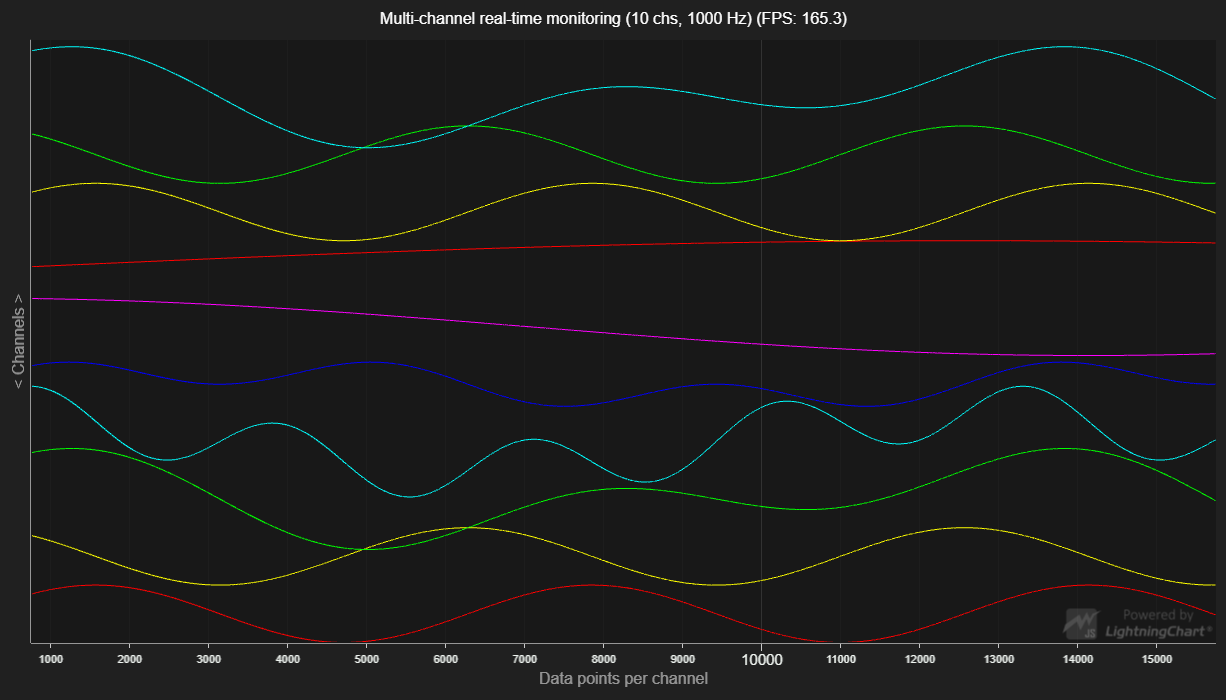
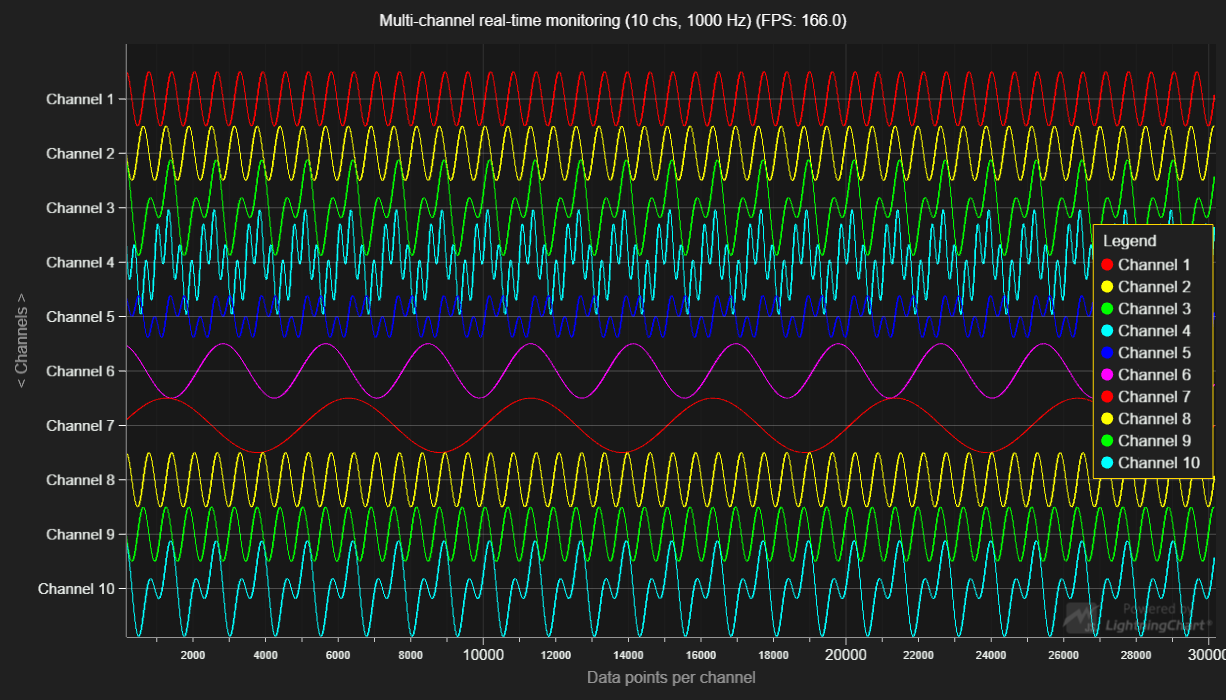
LCJS 3.0.0

diff --git a/src/index.js b/src/index.js
@@ -15,23 +15,22 @@ const {
     AutoCursorModes,
     AxisScrollStrategies,
     AxisTickStrategies,
-    DataPatterns,
     ColorRGBA,
     ColorHSV,
+    UIElementBuilders,
     Themes,
 } = lcjs
 
 const DATA_FREQUENCY_HZ = 1000
 const CHANNELS_AMOUNT = 10
-const xIntervalMax = 15 * DATA_FREQUENCY_HZ
+const xIntervalMax = 30 * DATA_FREQUENCY_HZ
 const channelIntervalY = 2 // [-1, 1]
 
 const chart = lightningChart()
     .ChartXY({
-        // Theme: Themes.dark,
+    // theme: Themes.dark
     })
     .setTitle(`Multi-channel real-time monitoring (${CHANNELS_AMOUNT} chs, ${DATA_FREQUENCY_HZ} Hz)`)
-    .setAutoCursorMode(AutoCursorModes.disabled)
 const axisX = chart
     .getDefaultAxisX()
     .disableAnimations()
@@ -46,37 +45,53 @@ const axisY = chart.getDefaultAxisY()
     .setInterval(-channelIntervalY / 2, CHANNELS_AMOUNT * channelIntervalY)
 
 const series = new Array(CHANNELS_AMOUNT).fill(0).map((_, iChannel) => {
-    const nSeries = chart
-        .addLineSeries({
-            dataPattern: DataPatterns.horizontalProgressive,
+    // Create line series optimized for regular progressive X data.
+    const nSeries = chart.addLineSeries({
+            dataPattern: {
+                // pattern: 'ProgressiveX' => Each consecutive data point has increased X coordinate.
+                pattern: 'ProgressiveX',
+                // regularProgressiveStep: true => The X step between each consecutive data point is regular (for example, always `1.0`).
+                regularProgressiveStep: true,
+            }
         })
+        .setName(`Channel ${iChannel + 1}`)
         .setStrokeStyle(new SolidLine({
             thickness: 1,
             fillStyle: new SolidFill({color: ColorHSV( iChannel * 60 )})
         }))
         .setMouseInteractions(false)
+        // Enable automatic data cleaning.
         .setMaxPointCount(xIntervalMax)
+
+    // Add custom tick for each channel.
+    chart
+        .getDefaultAxisY()
+        .addCustomTick(UIElementBuilders.AxisTick)
+        .setValue(( CHANNELS_AMOUNT - (1 + iChannel) ) * channelIntervalY)
+        .setTextFormatter(() => `Channel ${iChannel + 1}`)
+        .setGridStrokeStyle(
+            new SolidLine({
+                thickness: 1,
+                fillStyle: new SolidFill({ color: ColorRGBA(255, 255, 255, 60) }),
+            }),
+        )
 
     return nSeries
 })
 
-const dcThresholdBand = axisX.addConstantLine().setStrokeStyle(
-    new SolidLine({
-        thickness: 10,
-        fillStyle: new SolidFill({ color: ColorRGBA(255,0,0,50) }),
-    }),
-)
+// Add LegendBox.
+chart.addLegendBox().add(chart)
 
 // Define unique signals that will be used for channels.
 const signals = [
-    { length: 1000 * 2 * Math.PI, func: (x) => Math.sin(x / 1000) },
-    { length: 1000 * 2 * Math.PI, func: (x) => Math.cos(x / 1000) },
-    { length: 2000 * 2 * Math.PI, func: (x) => Math.cos(x / 2000) + Math.sin(x / 1000) },
-    { length: 2000 * 2 * Math.PI, func: (x) => Math.sin(x / 500) + Math.cos(x / 2000) },
-    { length: 2000 * 2 * Math.PI, func: (x) => Math.sin(x / 1000) * Math.cos(x / 2000) },
-    { length: 4500 * 2 * Math.PI, func: (x) => Math.cos(x / 4500) },
-    { length: 8000 * 2 * Math.PI, func: (x) => Math.sin(x / 8000) },
-    { length: 6500 * 2 * Math.PI, func: (x) => Math.sin(x / 2000) * Math.cos(x / 6500) },
+    { length: 100 * 2 * Math.PI, func: (x) => Math.sin(x / 100) },
+    { length: 100 * 2 * Math.PI, func: (x) => Math.cos(x / 100) },
+    { length: 200 * 2 * Math.PI, func: (x) => Math.cos(x / 200) + Math.sin(x / 100) },
+    { length: 200 * 2 * Math.PI, func: (x) => Math.sin(x / 50) + Math.cos(x / 200) },
+    { length: 200 * 2 * Math.PI, func: (x) => Math.sin(x / 100) * Math.cos(x / 200) },
+    { length: 450 * 2 * Math.PI, func: (x) => Math.cos(x / 450) },
+    { length: 800 * 2 * Math.PI, func: (x) => Math.sin(x / 800) },
+    { length: 650 * 2 * Math.PI, func: (x) => Math.sin(x / 200) * Math.cos(x / 650) },
 ]
 
 // Generate data sets for each signal.
@@ -110,7 +125,7 @@ Promise.all(
                 const x = xPos + iDp
                 const iData = x % (nDataset.length - 1)
                 const ySignal = nDataset[iData]
-                const y = iChannel * channelIntervalY + ySignal
+                const y = ((CHANNELS_AMOUNT - 1) - iChannel) * channelIntervalY + ySignal
                 const point = { x, y }
                 newDataPoints.push(point)
             }
@@ -129,13 +144,13 @@ Promise.all(
 
 
 // Measure FPS.
-let tStart = Date.now()
+let tStart = window.performance.now()
 let frames = 0
 let fps = 0
 const title = chart.getTitle()
 const recordFrame = () => {
     frames++
-    const tNow = Date.now()
+    const tNow = window.performance.now()
     fps = 1000 / ((tNow - tStart) / frames)
     sub_recordFrame = requestAnimationFrame(recordFrame)
 
@@ -143,6 +158,6 @@ const recordFrame = () => {
 }
 let sub_recordFrame = requestAnimationFrame(recordFrame)
 setInterval(() => {
-    tStart = Date.now()
+    tStart = window.performance.now()
     frames = 0
 }, 5000)

diff --git a/README.md b/README.md
@@ -27,11 +27,25 @@ Widely used in all kinds of fields for monitoring live data from many (hundreds 
 
 Frames rendered per second (*FPS*) is recorded live, and displayed on the Chart title. FPS of 40-60 indicates a smooth running performance.
 
+## Automatic data cleaning
+
+In infinitely scrolling applications, cleaning old out of view data is extremely crucial;
+in this example `LineSeries.setMaxPointsCount` method is used to enable automatic data cleaning.
+For reference, see also `LineSeries.setDataCleaningThreshold`.
+
+The `setMaxPointsCount` method sets the *amount of data points*, that will always be retained in the *series head* (latest data).
+The full conditions for valid *data cleaning* are:
+1. There is a considerably large chunk of data out of view (visible data is not cleaned!).
+2. If the chunk is removed, the amount of data that remains is still more than *max points count*.
+
+In practice, this results in an application where you can even scroll back for some distance and see older data, but if you scroll far enough, you will find that the old data has been *cleaned*. This allows the application to run *forever*!
+
 
 ## API Links
 
 * [XY cartesian chart]
 * [Line series]
+* [Data patterns]
 * [Axis]
 
 
@@ -56,7 +70,8 @@ Direct developer email support can be purchased through a [Support Plan][4] or b
 © Arction Ltd 2009-2020. All rights reserved.
 
 
-[XY cartesian chart]: https://www.arction.com/lightningchart-js-api-documentation/v2.2.0/classes/chartxy.html
-[Line series]: https://www.arction.com/lightningchart-js-api-documentation/v2.2.0/classes/lineseries.html
-[Axis]: https://www.arction.com/lightningchart-js-api-documentation/v2.2.0/classes/axis.html
+[XY cartesian chart]: https://www.arction.com/lightningchart-js-api-documentation/v3.0.0/classes/chartxy.html
+[Line series]: https://www.arction.com/lightningchart-js-api-documentation/v3.0.0/classes/lineseries.html
+[Data patterns]: https://www.arction.com/lightningchart-js-api-documentation/v3.0.0/interfaces/datapattern.html
+[Axis]: https://www.arction.com/lightningchart-js-api-documentation/v3.0.0/classes/axis.html
 
